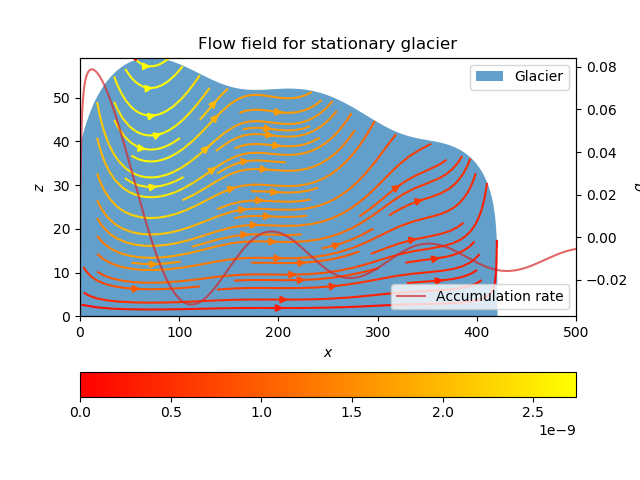
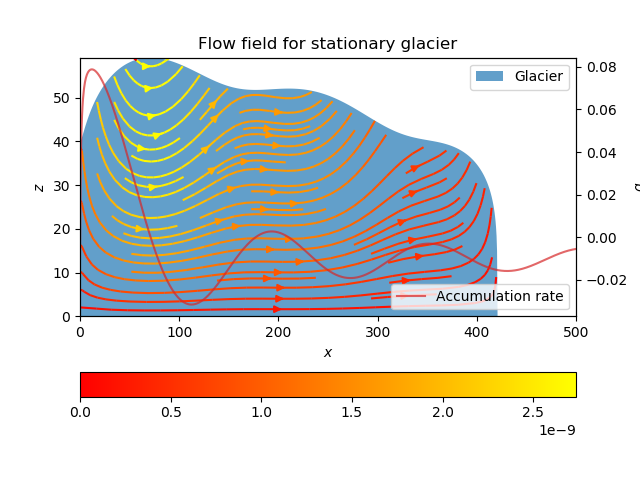
Forward and backward differences on boundaries for flow field computation

Changed region(s): [[0.125, 0.2812, 0.7812, 0.6562], [0.5938, 0.2812, 0.625, 0.3125]]

diff --git a/flow_field.py b/flow_field.py
@@ -41,19 +41,25 @@ def stationary_internal_flow_field(xs, h_0, angle, production):
 
     f_derivative = lambda i, z, dx: (f(i + 1, z) - f(i - 1, z)) / (2 * dx)
 
-    v = (
-        lambda i, z, dx: -glacier.kappa
-        / (glacier.m + 1)
-        * f_derivative(i, z, dx)
-    )
+    f_derivative_forward = lambda i, z, dx: (f(i + 1, z) - f(i, z)) / dx
+
+    f_derivative_backward = lambda i, z, dx: (f(i, z) - f(i - 1, z)) / dx
+
+    def v(i, z, dx, N):
+        if i == 0:
+            return -glacier.kappa/(glacier.m + 1)*f_derivative_forward(i, z, dx)
+        elif i == N-1:
+            return -glacier.kappa/(glacier.m + 1)*f_derivative_backward(i, z, dx)
+        else:
+            return -glacier.kappa/(glacier.m + 1)*f_derivative(i, z, dx)
 
     U = np.zeros((xs.shape[0], zs.shape[0]))
     V = np.zeros((xs.shape[0], zs.shape[0]))
 
-    for i in range(1, xs.shape[0] - 1):
-        for j in range(1, zs.shape[0] - 1):
+    for i in range(xs.shape[0]):
+        for j in range(zs.shape[0]):
             U[i, j] = u(i, zs[j])
-            V[i, j] = v(i, zs[j], xs[1] - xs[0])
+            V[i, j] = v(i, zs[j], xs[1] - xs[0], xs.shape[0])
         U[i, np.greater(zs, np.ones((zs.shape)) * hs[i])] = 0
         V[i, np.greater(zs, np.ones((zs.shape)) * hs[i])] = 0
 
@@ -64,7 +70,6 @@ def plot_internal_flow_field(glacier, zs, U, V):
     h = glacier.h_0.unscaled
     x = glacier.xs.unscaled
     z = zs * glacier.H
-    print(glacier.lambda_)
 
     # Horizontal velocity scaler
     U_scaling = glacier.Q * glacier.L / glacier.H
